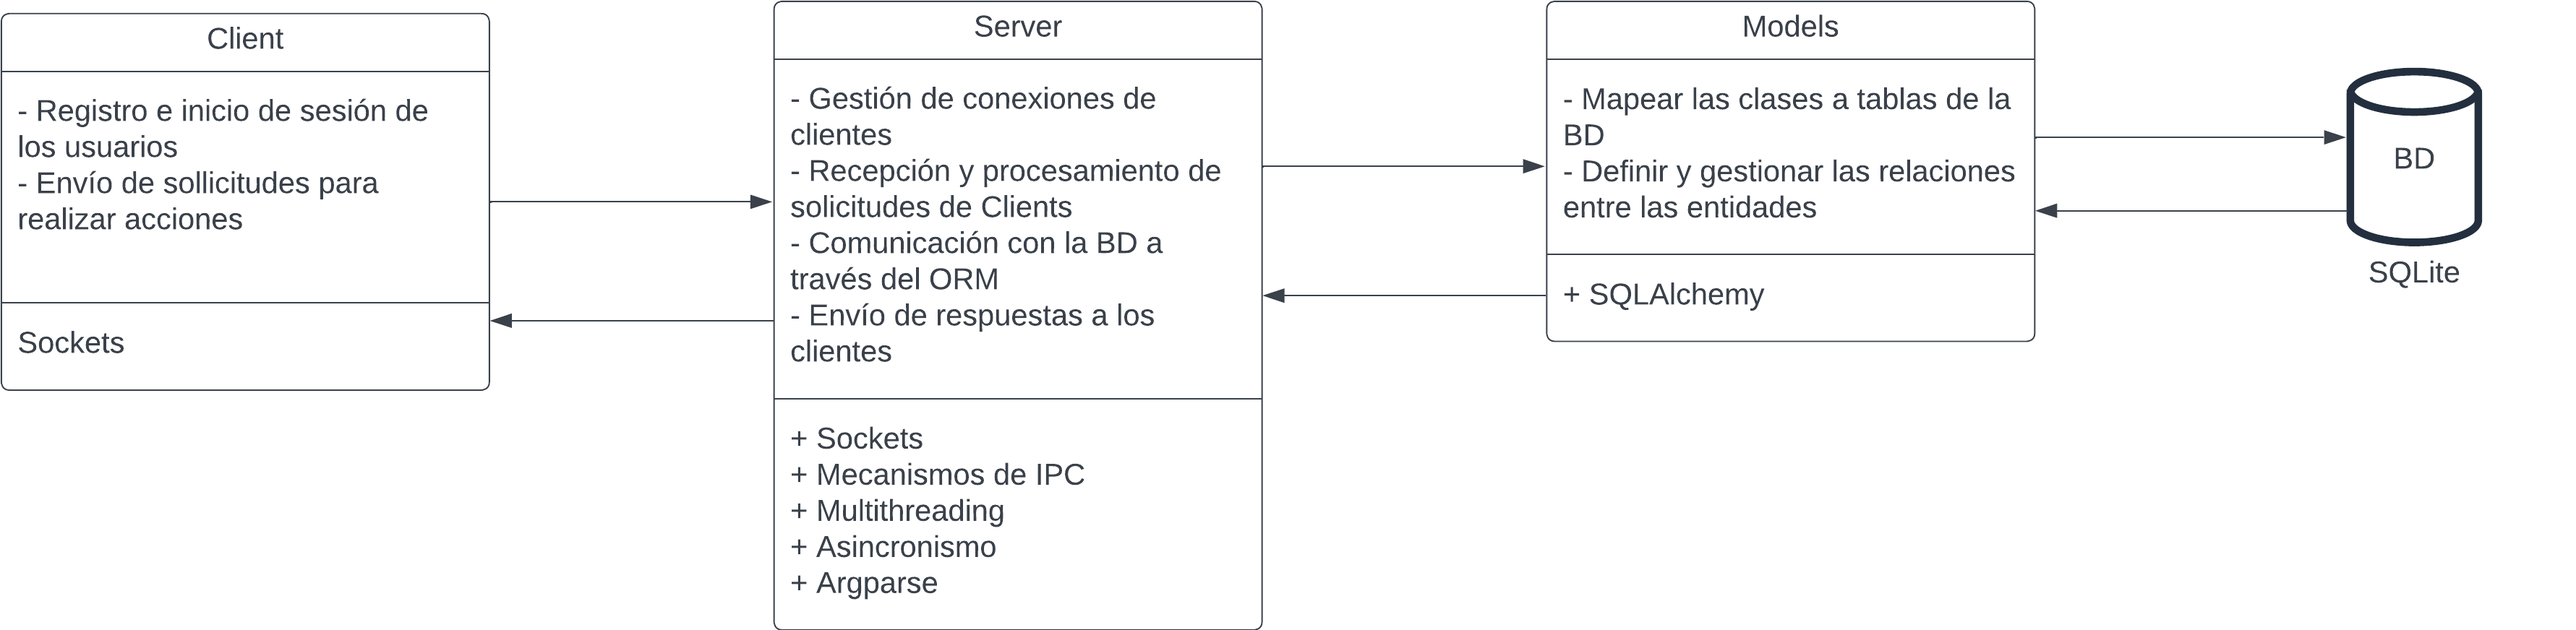
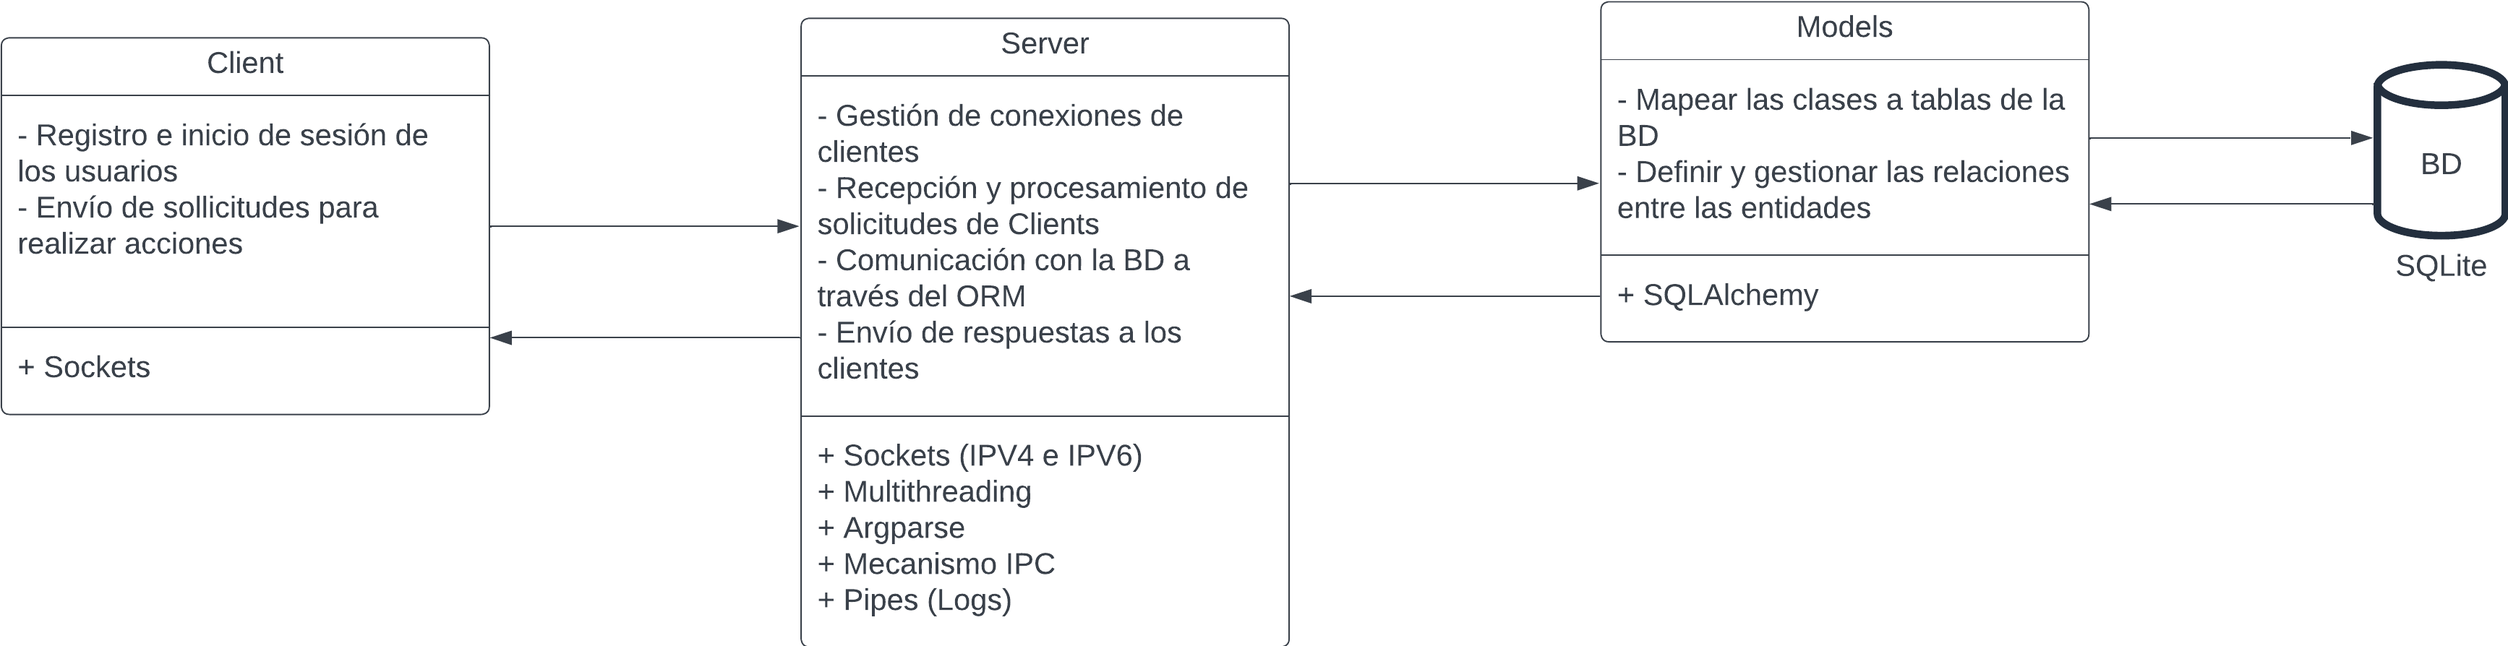
Registrarse y login funcionando correctamente

diff --git a/app/server.py b/app/server.py
@@ -1,0 +1,63 @@
+import socket
+import threading
+import hashlib
+from models import Session, Usuario
+
+def hashear_contrasena(contrasena):
+    return hashlib.sha256(contrasena.encode()).hexdigest()
+
+def manejar_cliente(cliente_socket):
+    session = Session()
+
+    try:
+        while True:
+            # Recibir datos del cliente
+            datos = cliente_socket.recv(1024).decode('utf-8')
+            if not datos:
+                break
+
+            # Procesar la solicitud del cliente (registro o inicio de sesión)
+            tipo_solicitud, *params = datos.split(',')
+
+            if tipo_solicitud == 'registrar':
+                nombre, apellido, alias, contrasena = params
+                contrasena_hasheada = hashear_contrasena(contrasena)
+
+                # Verificar si el alias ya está en uso
+                if session.query(Usuario).filter_by(alias=alias).first():
+                    cliente_socket.send(b'Alias ya en uso')
+                else:
+                    # Crear nuevo usuario
+                    nuevo_usuario = Usuario(nombre=nombre, apellido=apellido, alias=alias, contrasena=contrasena_hasheada)
+                    session.add(nuevo_usuario)
+                    session.commit()
+                    cliente_socket.send(b'Registro exitoso')
+
+            elif tipo_solicitud == 'iniciar_sesion':
+                alias, contrasena = params
+                contrasena_hasheada = hashear_contrasena(contrasena)
+
+                # Verificar las credenciales del usuario
+                usuario = session.query(Usuario).filter_by(alias=alias, contrasena=contrasena_hasheada).first()
+                if usuario:
+                    cliente_socket.send(b'Inicio de sesion exitoso')
+                else:
+                    cliente_socket.send(b'Credenciales invalidas')
+    finally:
+        session.close()
+        cliente_socket.close()
+
+def iniciar_servidor():
+    servidor_socket = socket.socket(socket.AF_INET, socket.SOCK_STREAM)
+    servidor_socket.bind(('0.0.0.0', 9999))
+    servidor_socket.listen(5)
+    print("Servidor escuchando en el puerto 9999")
+
+    while True:
+        cliente_socket, addr = servidor_socket.accept()
+        print(f"Conexión establecida con {addr}")
+        manejador_cliente = threading.Thread(target=manejar_cliente, args=(cliente_socket,))
+        manejador_cliente.start()
+
+if __name__ == '__main__':
+    iniciar_servidor()

diff --git a/app/client.py b/app/client.py
@@ -1,0 +1,49 @@
+import socket
+import getpass
+
+def cliente_registro():
+    alias = input("Elige un alias: ")
+    nombre = input("Ingresa tu nombre: ")
+    apellido = input("Ingresa tu apellido: ")
+    contrasena = getpass.getpass("Ingresa tu contraseña: ")
+
+    solicitud = f"registrar,{nombre},{apellido},{alias},{contrasena}"
+    return solicitud
+
+def cliente_inicio_sesion():
+    alias = input("Ingresa tu alias: ")
+    contrasena = getpass.getpass("Ingresa tu contraseña: ")
+
+    solicitud = f"iniciar_sesion,{alias},{contrasena}"
+    return solicitud
+
+def iniciar_cliente():
+    cliente_socket = socket.socket(socket.AF_INET, socket.SOCK_STREAM)
+    cliente_socket.connect(('127.0.0.1', 9999))
+
+    while True:
+        print("\nMenú:")
+        print("1. Registrarse")
+        print("2. Iniciar sesión")
+        print("3. Salir")
+
+        eleccion = input("Elige una opción (1/2/3): ")
+
+        if eleccion == '1':
+            solicitud = cliente_registro()
+        elif eleccion == '2':
+            solicitud = cliente_inicio_sesion()
+        elif eleccion == '3':
+            break
+        else:
+            print("Opción inválida. Inténtalo de nuevo.")
+            continue
+
+        cliente_socket.send(solicitud.encode('utf-8'))
+        respuesta = cliente_socket.recv(1024).decode('utf-8')
+        print(f"Respuesta del servidor: {respuesta}")
+
+    cliente_socket.close()
+
+if __name__ == '__main__':
+    iniciar_cliente()

diff --git a/app/models.py b/app/models.py
@@ -1,3 +1,4 @@
+# models.py
 from sqlalchemy import create_engine, Column, Integer, String, Text, ForeignKey
 from sqlalchemy.orm import declarative_base, relationship, sessionmaker
 
@@ -10,6 +11,7 @@ class Usuario(Base):
     nombre = Column(String, nullable=False)
     apellido = Column(String, nullable=False)
     alias = Column(String, unique=True, nullable=False)
+    contrasena = Column(String, nullable=False)
 
     reviews = relationship('Review', back_populates='usuario')
 
@@ -43,20 +45,7 @@ class Review(Base):
     def __repr__(self):
         return f'<Review(id={self.id}, texto={self.texto}, calificacion={self.calificacion}, id_usuario={self.id_usuario}, id_pelicula={self.id_pelicula})>'
 
-if __name__ == '__main__':
-    engine = create_engine('sqlite:///reviews.db')
-    Base.metadata.create_all(engine)
-
-'''    Session = sessionmaker(bind=engine)
-    session = Session()
-
-    usuario1 = Usuario(nombre='Juan', apellido='Perez', alias='juan123')
-    pelicula1 = Pelicula(nombre='Inception', genero='Sci-Fi')
-    review1 = Review(texto='Gran película, me encantó!', calificacion=9, usuario=usuario1, pelicula=pelicula1)
-
-    session.add(usuario1)
-    session.add(pelicula1)
-    session.add(review1)
-    session.commit()
-
-    session.close()'''
+# Conexión a la base de datos
+engine = create_engine('sqlite:///reviews.db')
+Base.metadata.create_all(engine)
+Session = sessionmaker(bind=engine)
